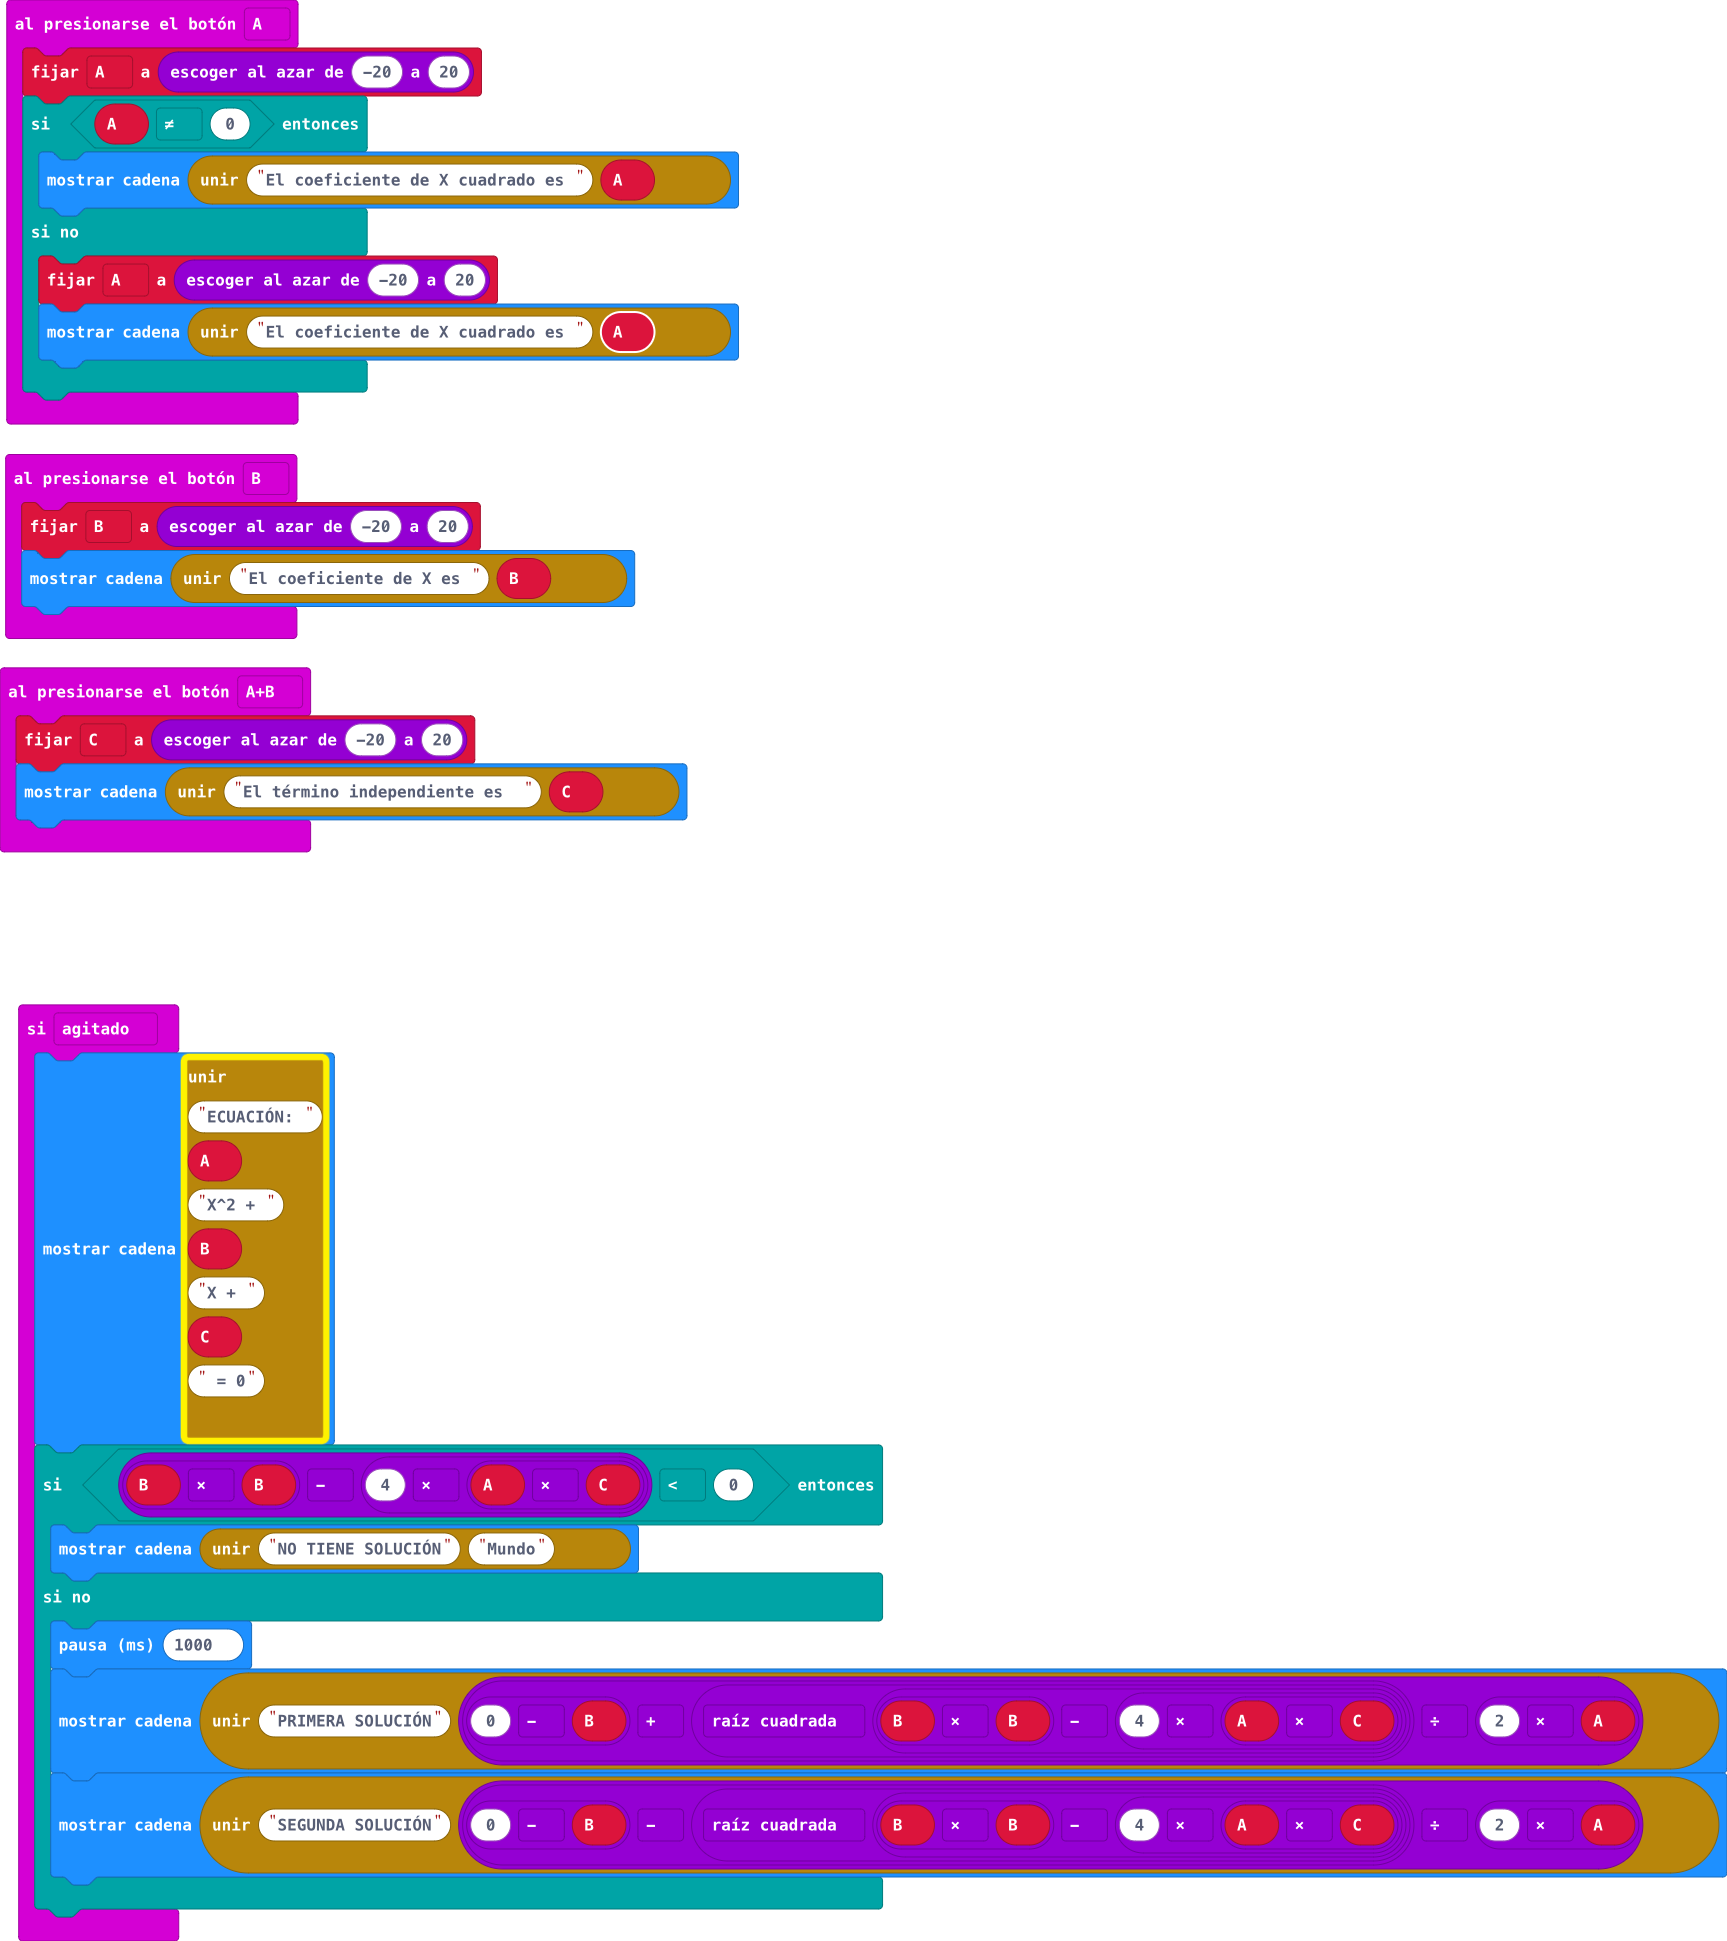
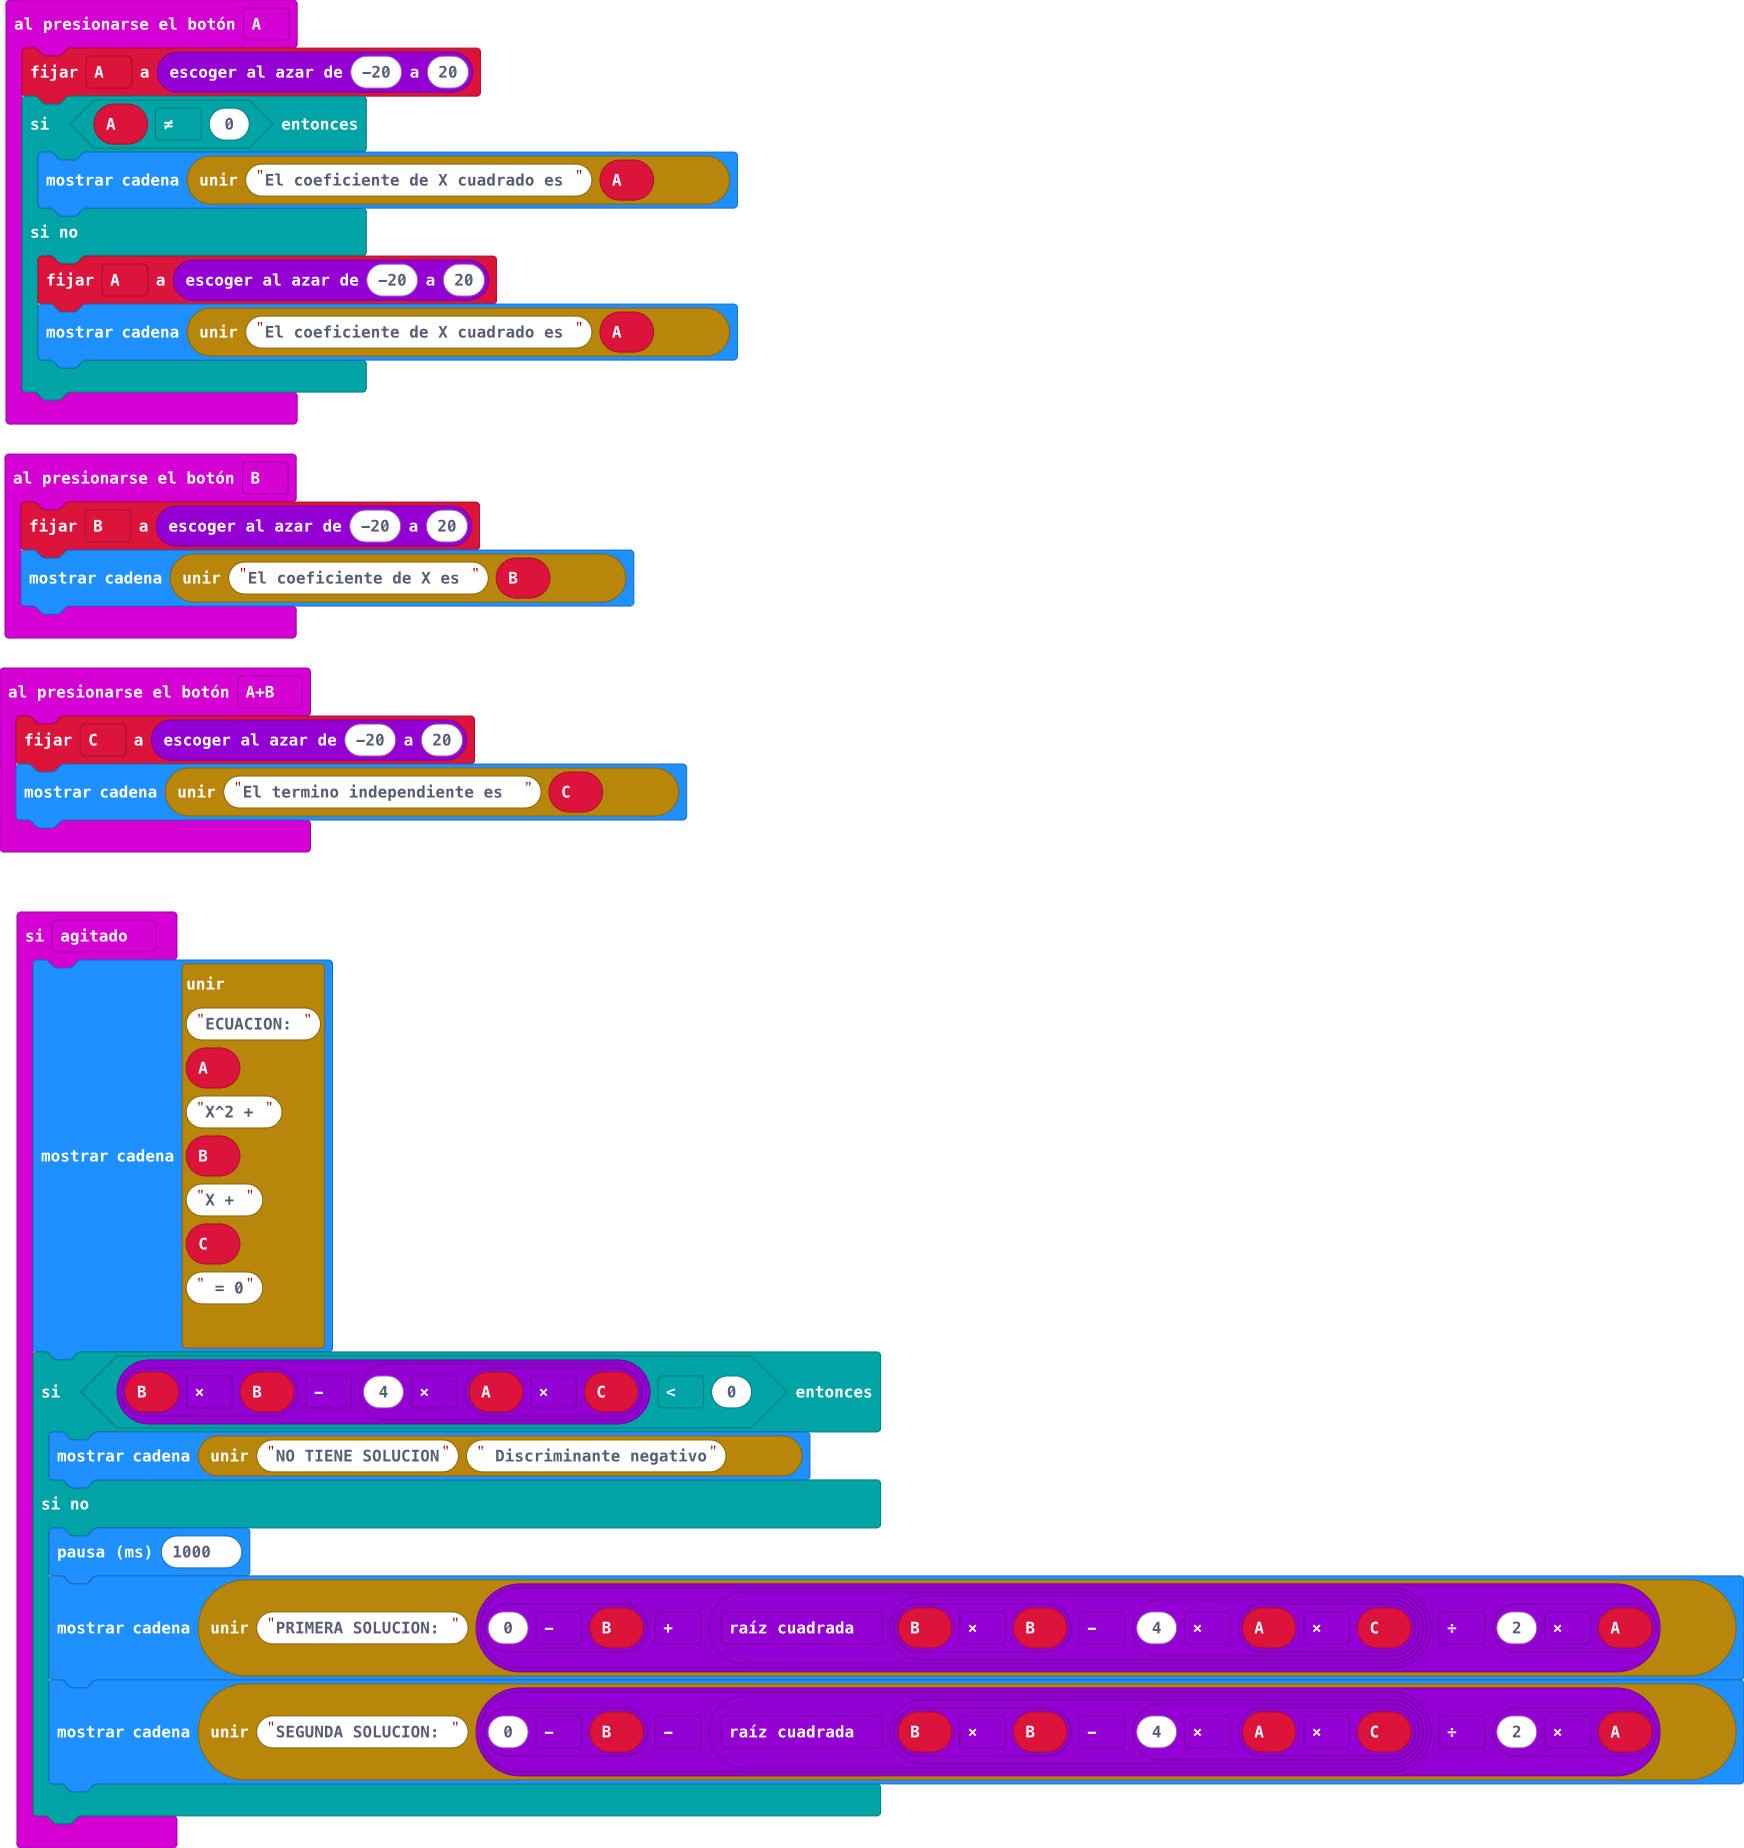
Actualizar main.blocks, main.ts

Changed region(s): [[0.0, 0.4935, 1.0, 0.987], [0.0, 0.0, 0.4296, 0.4627]]

diff --git a/main.ts b/main.ts
@@ -11,18 +11,18 @@ input.onButtonPressed(Button.A, function () {
     }
 })
 input.onGesture(Gesture.Shake, function () {
-    basic.showString("ECUACIÓN: " + A + "X^2 + " + B + "X + " + C + " = 0")
+    basic.showString("ECUACION: " + A + "X^2 + " + B + "X + " + C + " = 0")
     if (B * B - 4 * (A * C) < 0) {
-        basic.showString("NO TIENE SOLUCIÓN" + "Mundo")
+        basic.showString("NO TIENE SOLUCION" + " Discriminante negativo")
     } else {
         basic.pause(1000)
-        basic.showString("PRIMERA SOLUCIÓN" + (0 - B + Math.sqrt(B * B - 4 * (A * C))) / (2 * A))
-        basic.showString("SEGUNDA SOLUCIÓN" + (0 - B - Math.sqrt(B * B - 4 * (A * C))) / (2 * A))
+        basic.showString("PRIMERA SOLUCION: " + (0 - B + Math.sqrt(B * B - 4 * (A * C))) / (2 * A))
+        basic.showString("SEGUNDA SOLUCION: " + (0 - B - Math.sqrt(B * B - 4 * (A * C))) / (2 * A))
     }
 })
 input.onButtonPressed(Button.AB, function () {
     C = randint(-20, 20)
-    basic.showString("El término independiente es  " + C)
+    basic.showString("El termino independiente es  " + C)
 })
 input.onButtonPressed(Button.B, function () {
     B = randint(-20, 20)
